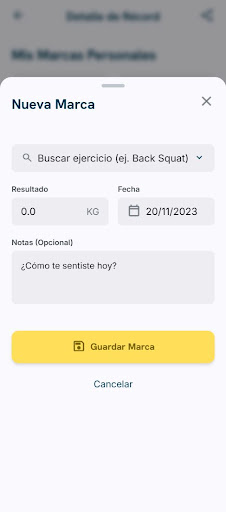
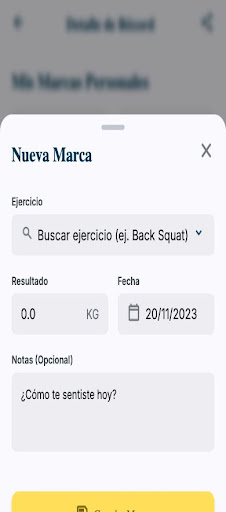
feat(atleta): sheet Registrar Nueva Marca (PR)
- LogPrSheet fiel al diseño Stitch: bottom sheet (grabber + detents) con
  header "Nueva Marca" + ✕, picker de ejercicio, Resultado (KG) + Fecha,
  Notas opcionales, "Guardar Marca" + "Cancelar".
- Presentado como .sheet desde el FAB de Progreso.
- Guardar deshabilitado hasta elegir ejercicio y resultado.
- Estándares HIG: háptica (selección/éxito), accesibilidad (labels en
  picker/cerrar), detents .large + grabber, esquinas 24pt.

Lista de ejercicios de muestra; al guardar → insertar en personal_records
(status = pendiente). Pendiente cablear a Supabase.

diff --git a/NDC-Elite/Features/Athlete/LogPrSheet.swift b/NDC-Elite/Features/Athlete/LogPrSheet.swift
@@ -1,0 +1,205 @@
+import SwiftUI
+
+/// Registrar Nueva Marca (PR) — diseño Stitch "Registrar Nueva Marca".
+/// Se presenta como **bottom sheet** (grabber + detents) desde el FAB de
+/// Progreso. Campos: ejercicio · resultado + fecha · notas · Guardar / Cancelar.
+/// (ver FLOWS.md → LogPrSheet)
+///
+/// TODO(datos): hoy usa una lista de ejercicios de muestra. Al guardar, insertar
+/// en `personal_records` (status = pendiente) con el ejercicio elegido.
+struct LogPrSheet: View {
+    @Environment(\.dismiss) private var dismiss
+
+    @State private var exercise: String?
+    @State private var result = ""
+    @State private var date = Date()
+    @State private var notes = ""
+
+    // TODO: reemplazar por `exercises` de Supabase (búsqueda + categoría).
+    private let exercises = [
+        "Back Squat", "Clean & Jerk", "Peso Muerto", "Snatch", "Press Banca",
+        "Fran (Time)", "Muscle Ups"
+    ]
+
+    var body: some View {
+        VStack(spacing: 0) {
+            header
+            ScrollView {
+                VStack(alignment: .leading, spacing: NDCSpacing.stackLG) {
+                    exerciseField
+                    HStack(alignment: .top, spacing: NDCSpacing.gutter) {
+                        resultField
+                        dateField
+                    }
+                    notesField
+                    actions
+                }
+                .padding(NDCSpacing.marginMain)
+            }
+            .scrollDismissesKeyboard(.interactively)
+        }
+        .background(NDCColor.surface)
+        .presentationDetents([.large])
+        .presentationDragIndicator(.visible)
+        .presentationCornerRadius(24)
+    }
+
+    // MARK: - Header
+
+    private var header: some View {
+        HStack {
+            Text("Nueva Marca")
+                .font(NDCFont.headlineMD)
+                .foregroundStyle(NDCColor.primary)
+            Spacer()
+            Button {
+                Haptics.impact(.light)
+                dismiss()
+            } label: {
+                Image(systemName: "xmark")
+                    .font(.system(size: 18, weight: .semibold))
+                    .foregroundStyle(NDCColor.outline)
+            }
+            .accessibilityLabel("Cerrar")
+        }
+        .padding(.horizontal, NDCSpacing.marginMain)
+        .padding(.top, NDCSpacing.stackMD)
+        .padding(.bottom, NDCSpacing.stackSM)
+    }
+
+    // MARK: - Ejercicio (picker)
+
+    private var exerciseField: some View {
+        VStack(alignment: .leading, spacing: 4) {
+            fieldLabel("Ejercicio")
+            Menu {
+                ForEach(exercises, id: \.self) { ex in
+                    Button(ex) {
+                        Haptics.selection()
+                        exercise = ex
+                    }
+                }
+            } label: {
+                HStack(spacing: NDCSpacing.stackSM) {
+                    Image(systemName: "magnifyingglass")
+                        .foregroundStyle(NDCColor.outline)
+                    Text(exercise ?? "Buscar ejercicio (ej. Back Squat)")
+                        .font(NDCFont.bodyLG)
+                        .foregroundStyle(exercise == nil ? NDCColor.outline : NDCColor.onSurface)
+                    Spacer()
+                    Image(systemName: "chevron.down")
+                        .foregroundStyle(NDCColor.primary)
+                }
+                .padding(.horizontal, NDCSpacing.gutter)
+                .frame(height: 48)
+                .background(NDCColor.surfaceStrong, in: .rect(cornerRadius: NDCRadius.standard))
+            }
+            .accessibilityLabel("Ejercicio")
+            .accessibilityValue(exercise ?? "Sin seleccionar")
+        }
+    }
+
+    // MARK: - Resultado + Fecha
+
+    private var resultField: some View {
+        VStack(alignment: .leading, spacing: 4) {
+            fieldLabel("Resultado")
+            HStack {
+                TextField("0.0", text: $result)
+                    .keyboardType(.decimalPad)
+                    .font(NDCFont.bodyLG)
+                Text("KG")
+                    .font(NDCFont.labelBold)
+                    .foregroundStyle(NDCColor.outline)
+            }
+            .padding(.horizontal, NDCSpacing.gutter)
+            .frame(height: 48)
+            .background(NDCColor.surfaceStrong, in: .rect(cornerRadius: NDCRadius.standard))
+        }
+    }
+
+    private var dateField: some View {
+        VStack(alignment: .leading, spacing: 4) {
+            fieldLabel("Fecha")
+            HStack {
+                Image(systemName: "calendar")
+                    .foregroundStyle(NDCColor.outline)
+                DatePicker("", selection: $date, displayedComponents: .date)
+                    .labelsHidden()
+                    .tint(NDCColor.primary)
+                Spacer(minLength: 0)
+            }
+            .padding(.horizontal, NDCSpacing.gutter)
+            .frame(height: 48)
+            .background(NDCColor.surfaceStrong, in: .rect(cornerRadius: NDCRadius.standard))
+        }
+    }
+
+    // MARK: - Notas
+
+    private var notesField: some View {
+        VStack(alignment: .leading, spacing: 4) {
+            fieldLabel("Notas (Opcional)")
+            ZStack(alignment: .topLeading) {
+                if notes.isEmpty {
+                    Text("¿Cómo te sentiste hoy?")
+                        .font(NDCFont.bodyMD)
+                        .foregroundStyle(NDCColor.outline)
+                        .padding(.horizontal, NDCSpacing.gutter + 4)
+                        .padding(.vertical, NDCSpacing.gutter)
+                }
+                TextEditor(text: $notes)
+                    .font(NDCFont.bodyMD)
+                    .frame(minHeight: 80)
+                    .scrollContentBackground(.hidden)
+                    .padding(NDCSpacing.stackSM)
+            }
+            .background(NDCColor.surfaceStrong, in: .rect(cornerRadius: NDCRadius.standard))
+        }
+    }
+
+    // MARK: - Acciones
+
+    private var actions: some View {
+        VStack(spacing: NDCSpacing.stackMD) {
+            Button(action: save) {
+                Label("Guardar Marca", systemImage: "square.and.arrow.down")
+                    .font(NDCFont.headlineSM)
+                    .foregroundStyle(NDCColor.onAccent)
+                    .frame(maxWidth: .infinity, minHeight: 56)
+                    .background(NDCColor.accent, in: .rect(cornerRadius: NDCRadius.large))
+                    .shadow(color: .black.opacity(0.1), radius: 6, y: 3)
+            }
+            .disabled(exercise == nil || result.isEmpty)
+            .opacity(exercise == nil || result.isEmpty ? 0.6 : 1)
+            .accessibilityHint("Guarda la marca para validación del coach")
+
+            Button("Cancelar") {
+                Haptics.impact(.light)
+                dismiss()
+            }
+            .font(NDCFont.labelBold)
+            .foregroundStyle(NDCColor.primary)
+            .frame(maxWidth: .infinity, minHeight: 48)
+        }
+        .padding(.top, NDCSpacing.stackSM)
+    }
+
+    // MARK: - Helpers
+
+    private func fieldLabel(_ text: String) -> some View {
+        Text(text)
+            .font(NDCFont.labelBold)
+            .foregroundStyle(NDCColor.onSurfaceVariant)
+    }
+
+    private func save() {
+        Haptics.notify(.success)
+        // TODO: insertar en personal_records (status = pendiente)
+        dismiss()
+    }
+}
+
+#Preview {
+    Color.gray.sheet(isPresented: .constant(true)) { LogPrSheet() }
+}

diff --git a/NDC-Elite/Features/Athlete/PerformanceView.swift b/NDC-Elite/Features/Athlete/PerformanceView.swift
@@ -16,6 +16,8 @@ struct PerformanceView: View {
     let profile: Profile
     private let data = PerformanceData.sample
 
+    @State private var showLogPr = false
+
     var body: some View {
         NavigationStack {
             ScrollView {
@@ -35,6 +37,7 @@ struct PerformanceView: View {
             .background(NDCColor.background)
             .scrollIndicators(.hidden)
             .overlay(alignment: .bottomTrailing) { logPrFAB }
+            .sheet(isPresented: $showLogPr) { LogPrSheet() }
             .toolbar(.hidden, for: .navigationBar)
         }
         .tint(NDCColor.primary)
@@ -143,7 +146,7 @@ struct PerformanceView: View {
     private var logPrFAB: some View {
         Button {
             Haptics.impact()
-            // TODO: → LogPrSheet (Registrar Nueva Marca)
+            showLogPr = true
         } label: {
             Image(systemName: "plus")
                 .font(.system(size: 22, weight: .semibold))